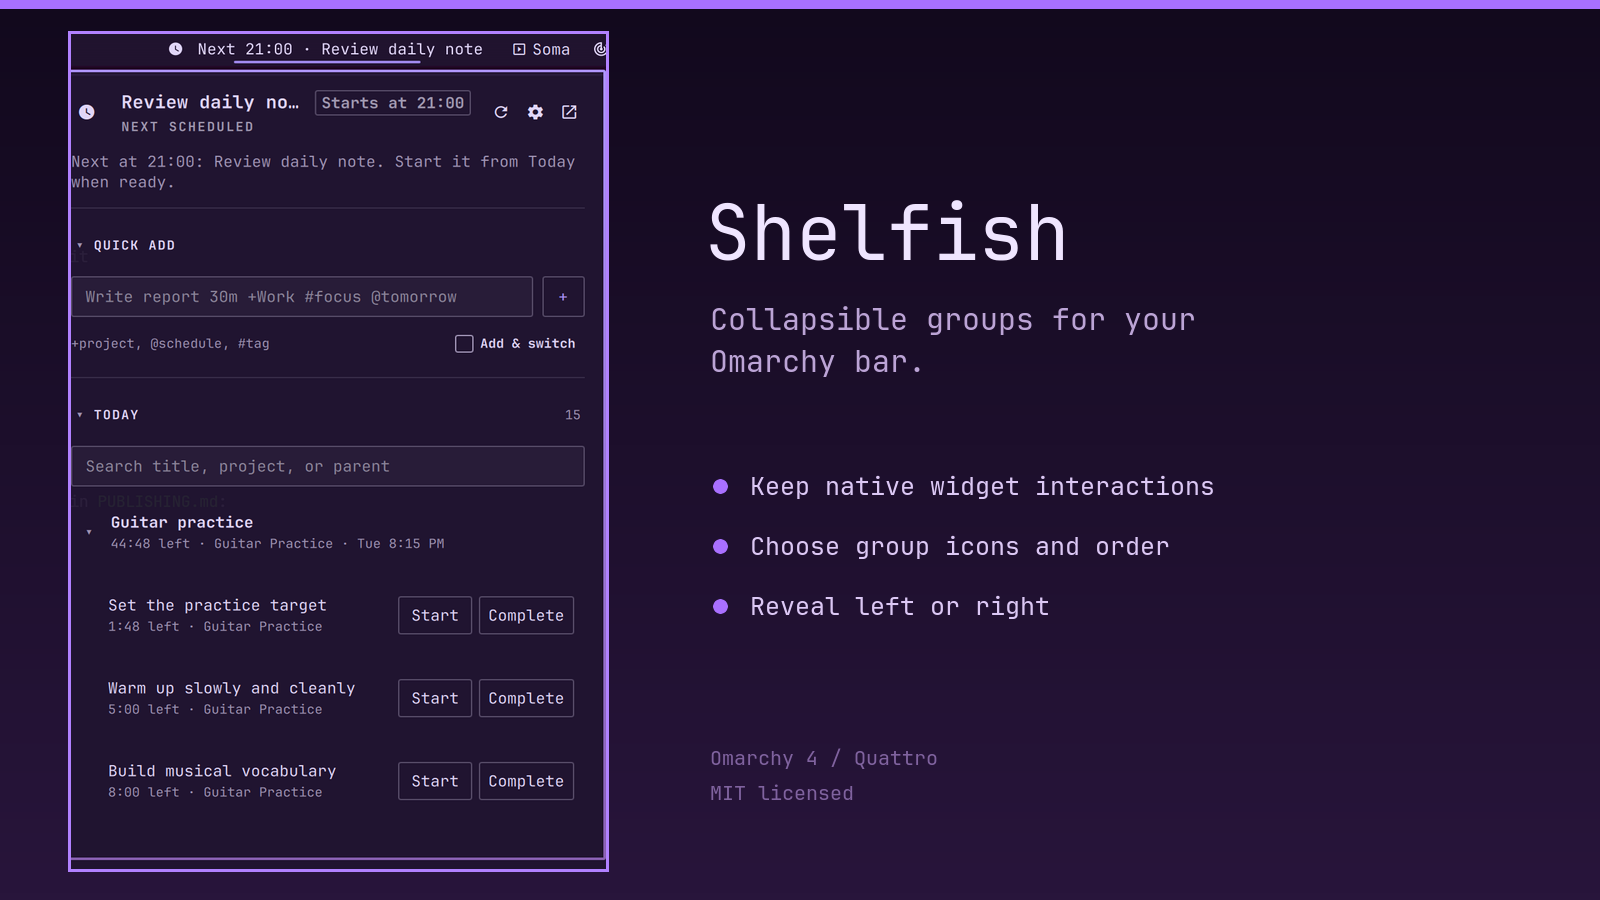
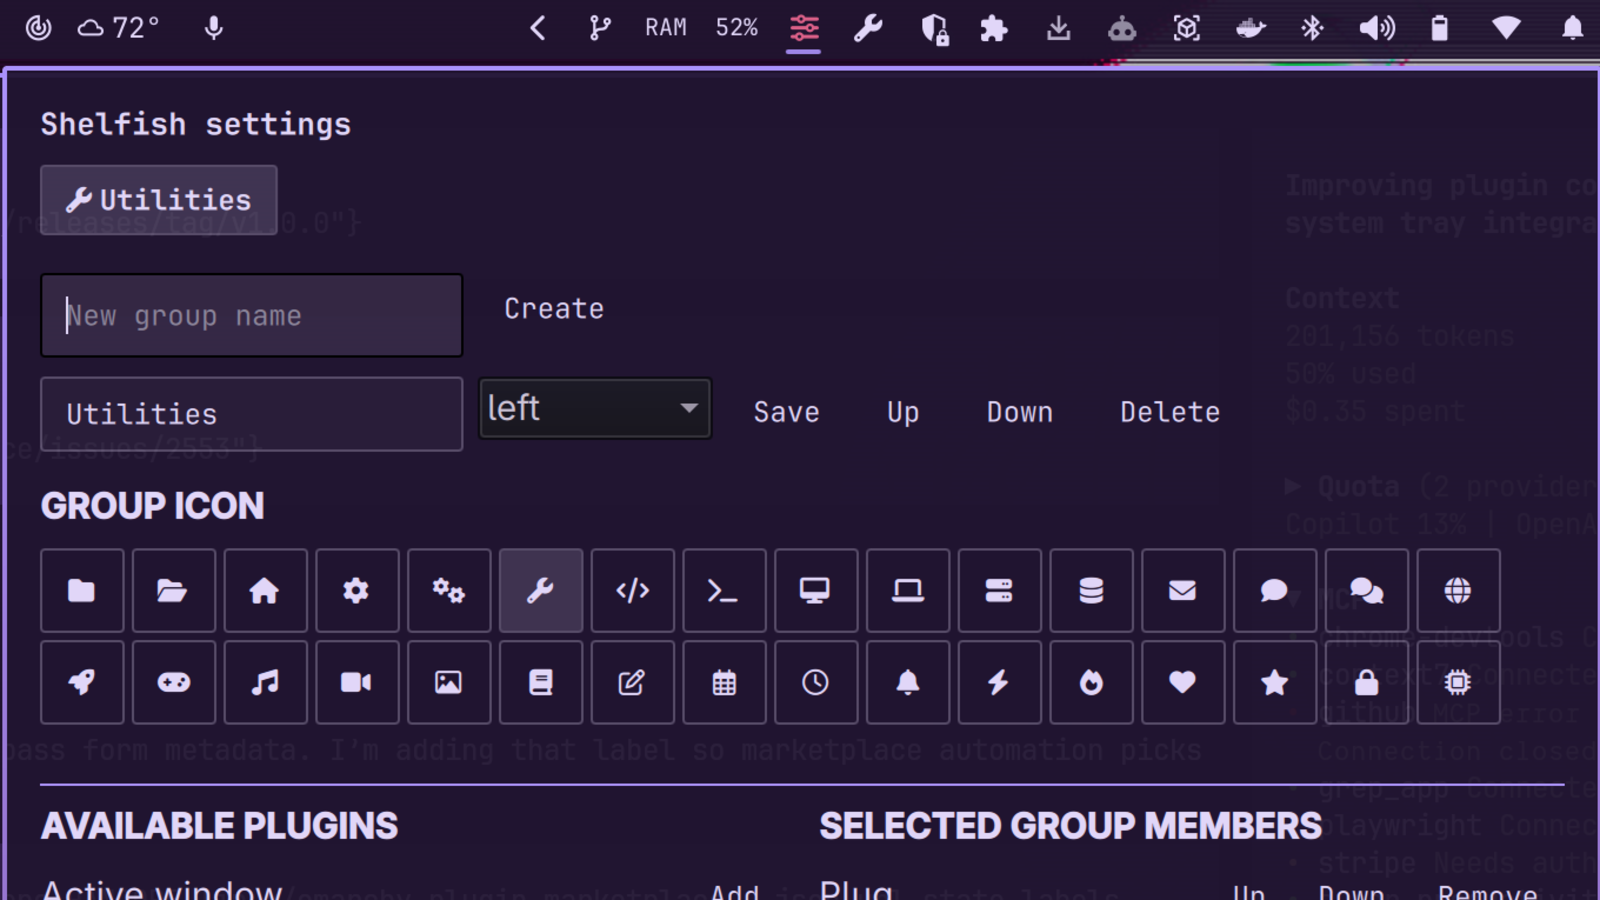
fix: correct marketplace preview

diff --git a/tests/release.test.js b/tests/release.test.js
@@ -7,7 +7,7 @@ const manifest = JSON.parse(fs.readFileSync(path.join(root, "manifest.json"), "u
 
 assert.equal(manifest.id, "io.github.patrickfanella.shelfish")
 assert.equal(manifest.name, "Shelfish")
-assert.equal(manifest.version, "1.0.0")
+assert.equal(manifest.version, "1.0.1")
 assert.equal(manifest.author, "Patrick Fanella")
 assert.equal(manifest.license, "MIT")
 

diff --git a/PUBLISHING.md b/PUBLISHING.md
@@ -13,11 +13,11 @@ Submit through the [Omarchy Plugin Marketplace issue form](https://github.com/HA
 
 1. Run `tests/check-all.sh`.
 2. Test install, enable, disable, restart, restore, and remove behavior.
-3. Confirm `manifest.json` still reports version `1.0.0`.
+3. Confirm `manifest.json` still reports version `1.0.1`.
 4. Confirm the repository is public and unarchived.
 5. Optionally add a root `preview.png`, `preview.jpg`, `preview.jpeg`, `preview.webp`, or `preview.avif`.
 6. Commit and push the reviewed release files.
-7. Optionally create tag and release `v1.0.0`.
+7. Optionally create tag and release `v1.0.1`.
 8. Submit the repository root URL through the marketplace issue form.
 
 The marketplace validates the submitted commit but does not security-audit or sandbox the plugin.

diff --git a/CHANGELOG.md b/CHANGELOG.md
@@ -1,5 +1,9 @@
 # Changelog
 
+## 1.0.1 - 2026-08-25
+
+- Replaced the marketplace preview with the correct Shelfish settings screenshot.
+
 ## 1.0.0 - 2026-08-25
 
 - Added named, ordered groups for existing Omarchy bar widgets.
